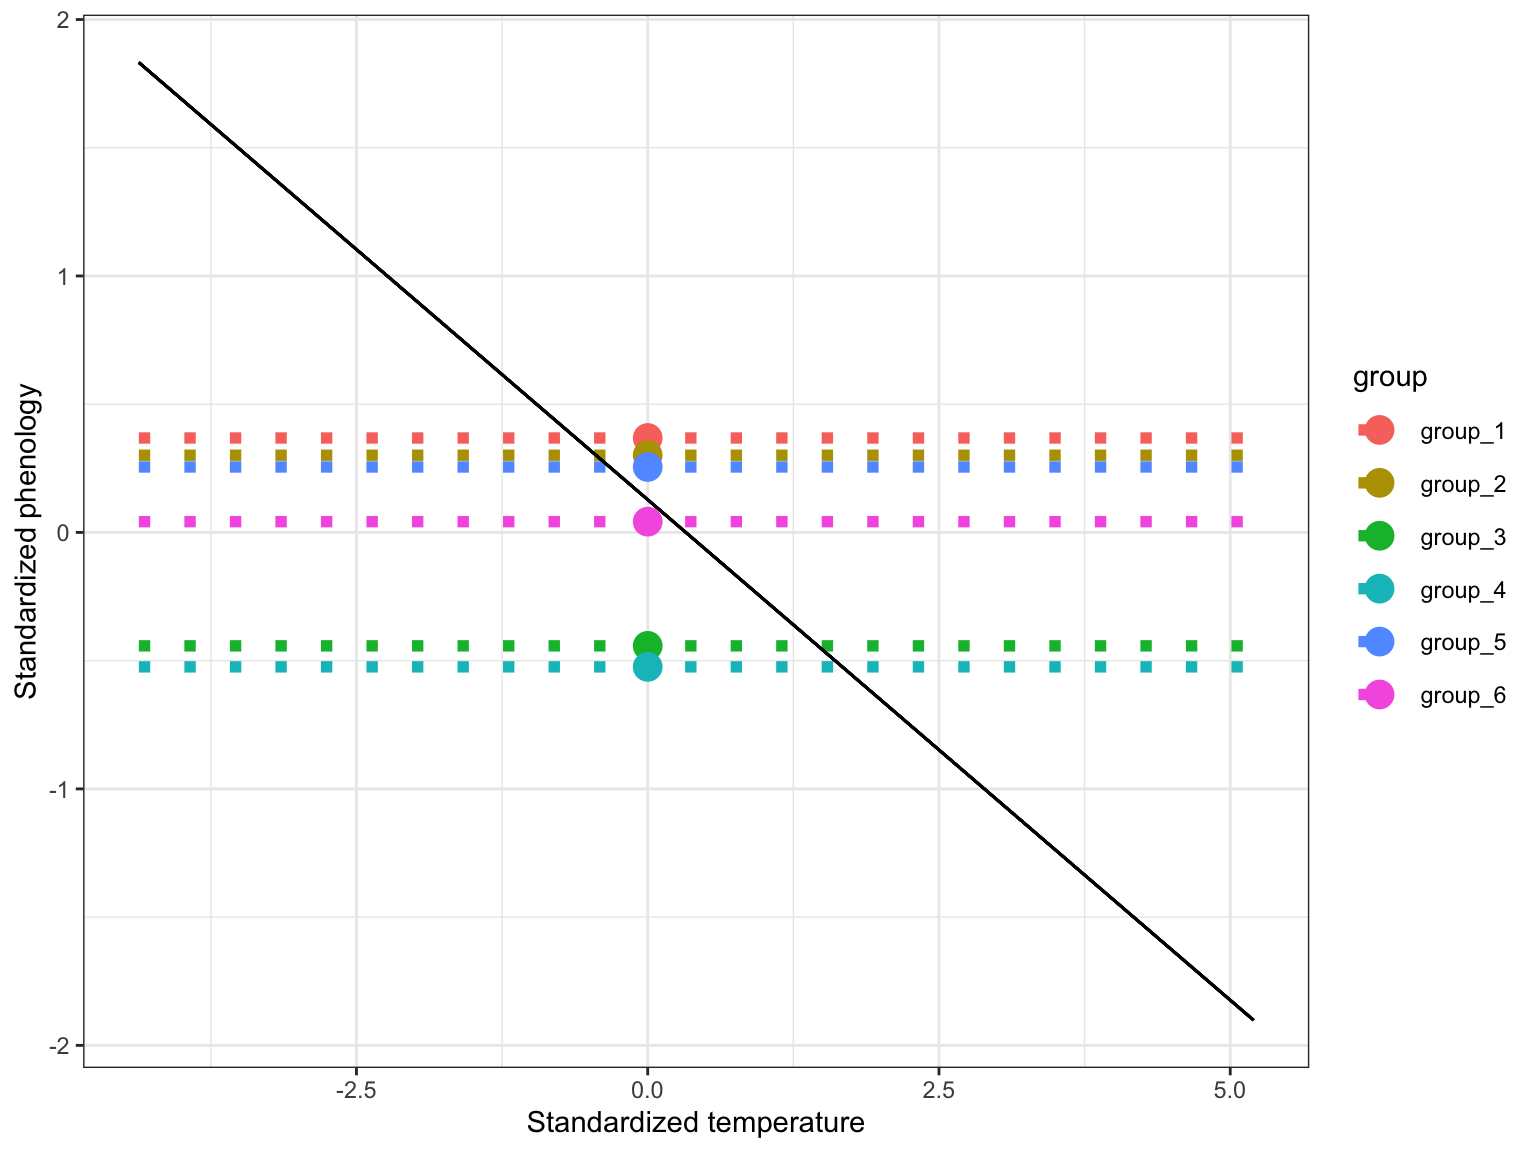
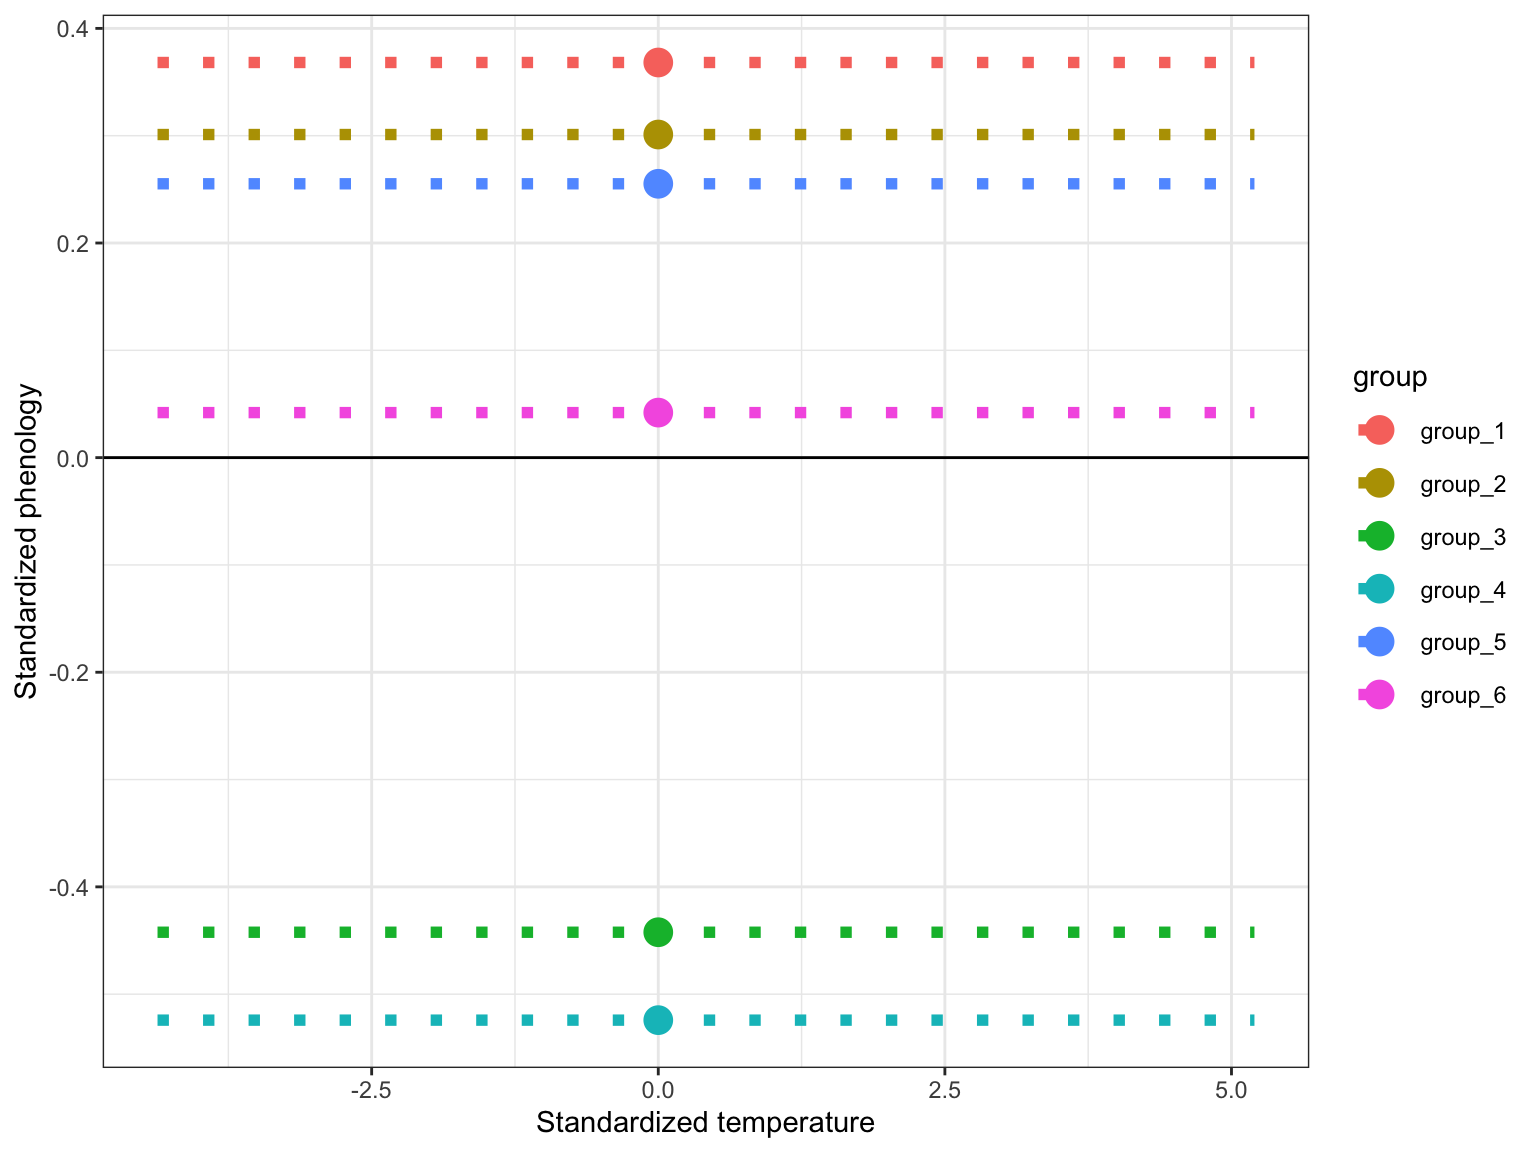
lecture 2 remove pop-level slope for the ranef visualization

diff --git a/02_LMMs/02a_Lecture_LMMs.html b/02_LMMs/02a_Lecture_LMMs.html
@@ -1052,7 +1052,7 @@ class="title-slide slide level1">
 <span id="cb20-3"><a href="#cb20-3" aria-hidden="true" tabindex="-1"></a>  <span class="fu">rename</span>(<span class="at">group =</span> grp)</span>
 <span id="cb20-4"><a href="#cb20-4" aria-hidden="true" tabindex="-1"></a><span class="fu">ggplot</span>(<span class="at">data =</span> new.dat, <span class="fu">aes</span>(<span class="at">x =</span> x, <span class="at">y =</span> pred_ranE, <span class="at">group =</span> group, <span class="at">col =</span> group)) <span class="sc">+</span></span>
 <span id="cb20-5"><a href="#cb20-5" aria-hidden="true" tabindex="-1"></a>  <span class="fu">geom_line</span>(<span class="at">lty =</span> <span class="dv">3</span>, <span class="at">linewidth =</span> <span class="dv">2</span>) <span class="sc">+</span> <span class="fu">theme_bw</span>() <span class="sc">+</span></span>
-<span id="cb20-6"><a href="#cb20-6" aria-hidden="true" tabindex="-1"></a>  <span class="fu">geom_line</span>(<span class="at">data =</span> new.dat, <span class="fu">aes</span>(<span class="at">x =</span> x, <span class="at">y =</span> pred_fix), <span class="at">col =</span> <span class="st">&#39;black&#39;</span>) <span class="sc">+</span> </span>
+<span id="cb20-6"><a href="#cb20-6" aria-hidden="true" tabindex="-1"></a>  <span class="fu">geom_hline</span>(<span class="at">yintercept =</span> <span class="dv">0</span>, <span class="at">col =</span> <span class="st">&#39;black&#39;</span>) <span class="sc">+</span> </span>
 <span id="cb20-7"><a href="#cb20-7" aria-hidden="true" tabindex="-1"></a>  <span class="fu">geom_point</span>(<span class="at">data =</span> randEF, <span class="fu">aes</span>(<span class="at">x =</span> <span class="dv">0</span>, <span class="at">y =</span> condval, <span class="at">col =</span> group), <span class="at">pch =</span> <span class="dv">20</span>, <span class="at">size =</span> <span class="dv">7</span>) <span class="sc">+</span></span>
 <span id="cb20-8"><a href="#cb20-8" aria-hidden="true" tabindex="-1"></a>  <span class="fu">xlab</span>(<span class="st">&#39;Standardized temperature&#39;</span>) <span class="sc">+</span> <span class="fu">ylab</span>(<span class="st">&#39;Standardized phenology&#39;</span>)</span></code></pre></div>
 <p><img src="02a_Lecture_LMMs_files/figure-revealjs/RInt%20plot%20predictions%20with%20RANEF-1.png" width="45%" height="45%" style="display: block; margin: auto;" /></p>
